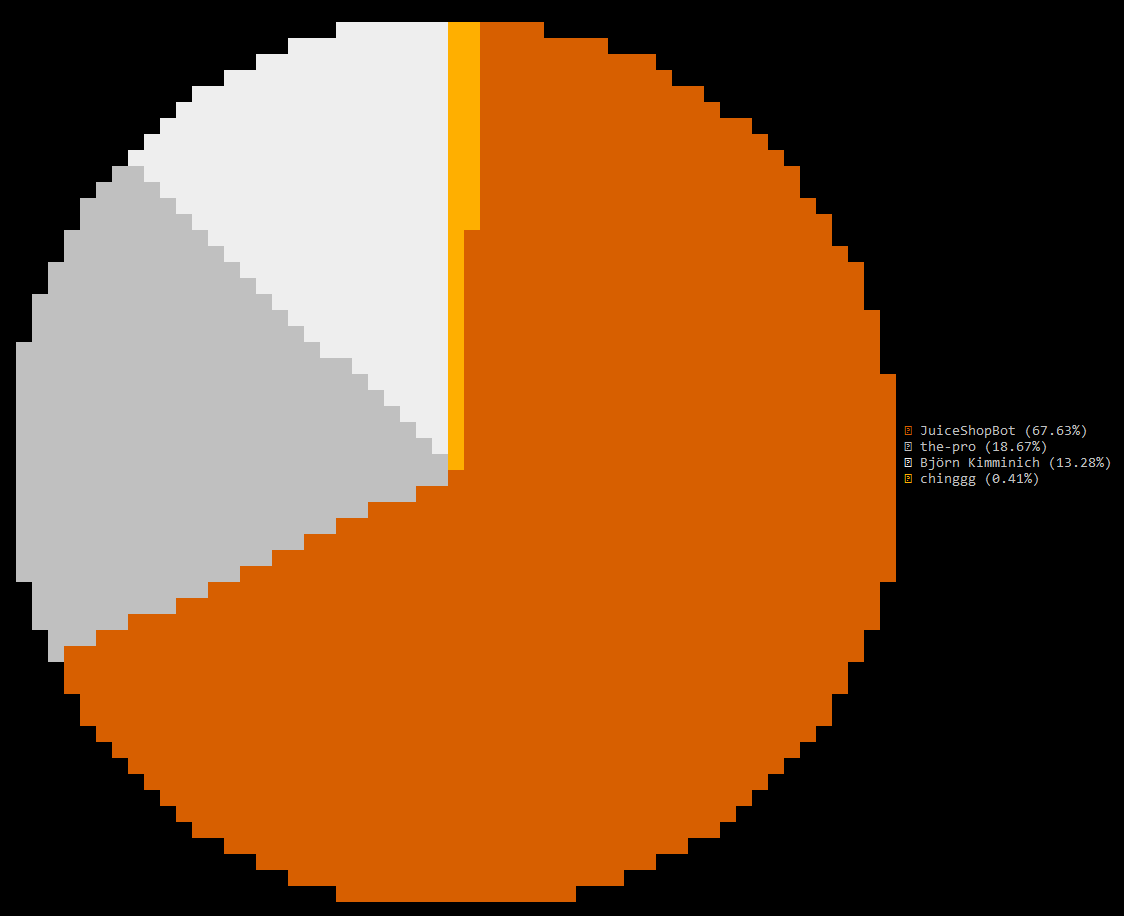
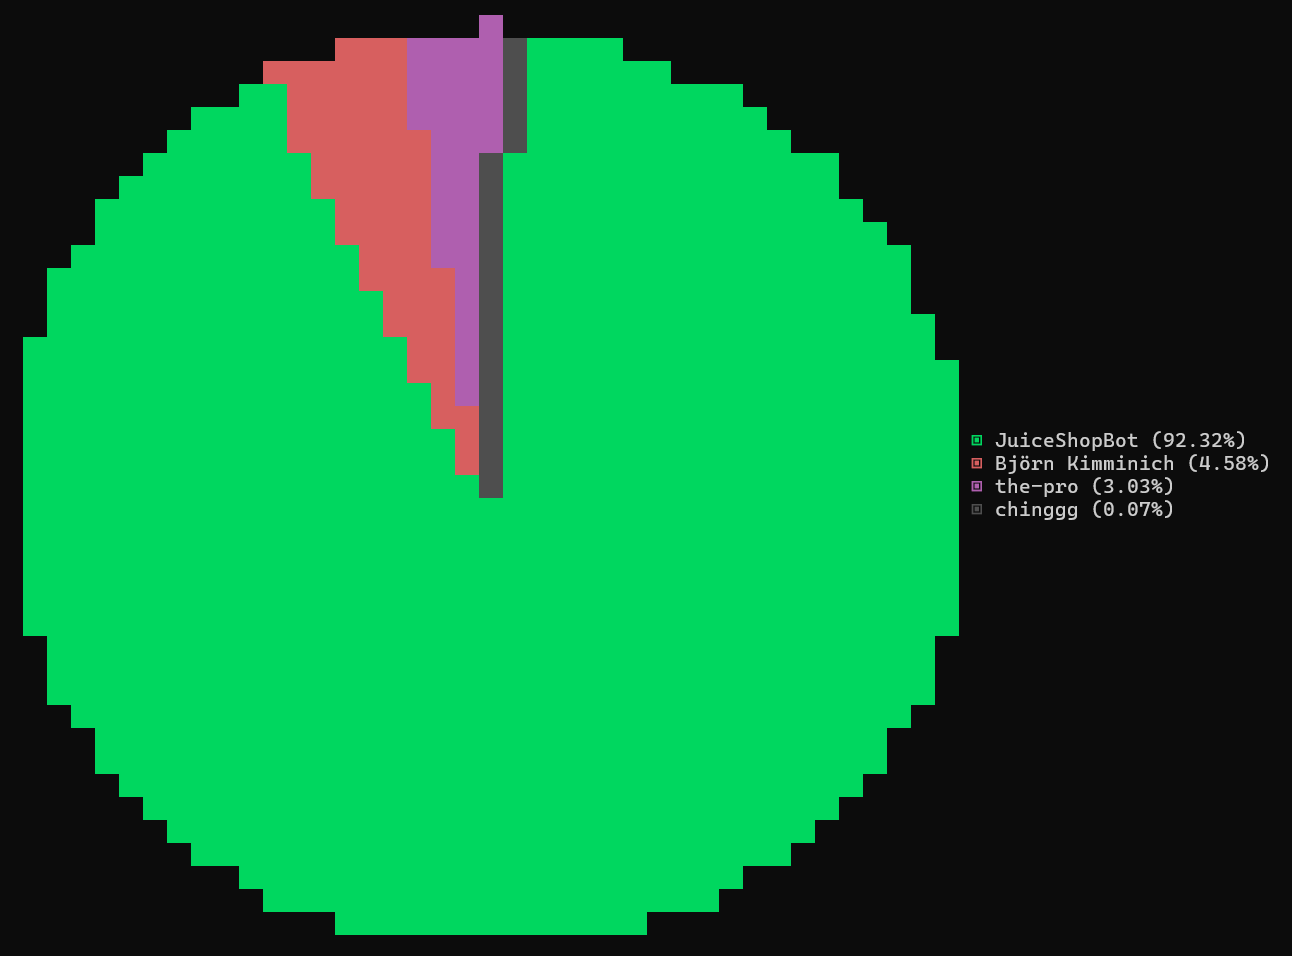
Update GitHub contributor stats

diff --git a/README.md b/README.md
@@ -5,7 +5,7 @@
 ## GitHub Contributors
 
 As reported by [`git-stats -a -s '2021'`](https://www.npmjs.com/package/git-stats) analysis
-of `master` as of Wed, 13 Oct 2021 after deduplication with `.mailmap`.
+of `master` as of Thu, 30 Jan 2025 after deduplication with `.mailmap`.
 
 ![Top git contributors](images/git-stats.png)
 
